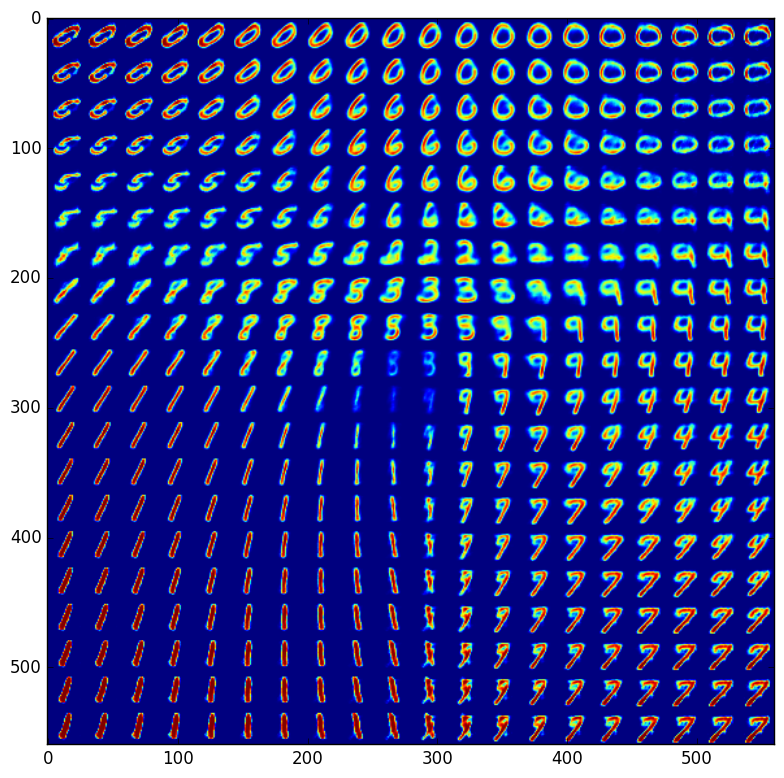
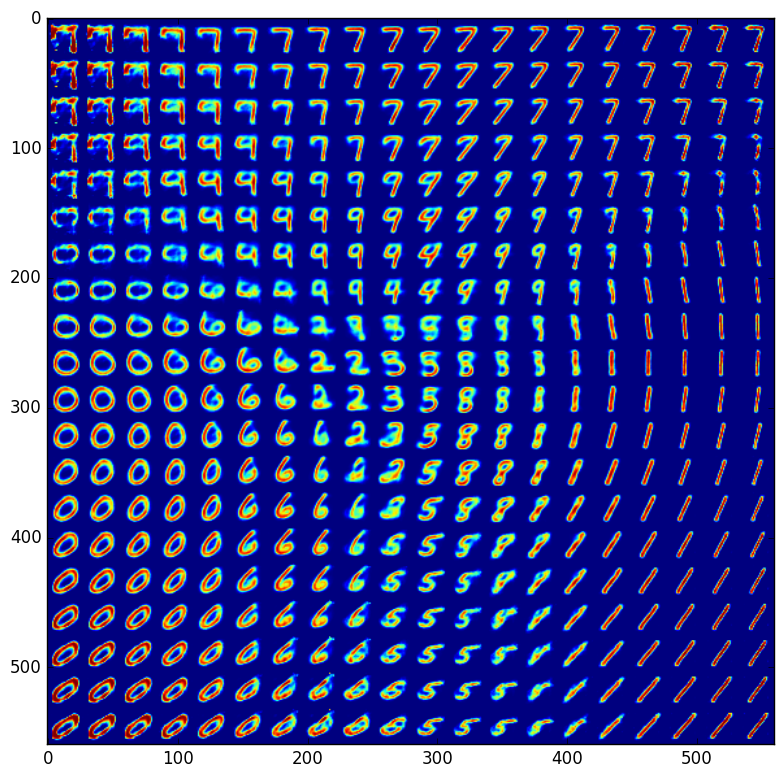
tuning

diff --git a/AVAE.py b/AVAE.py
@@ -120,7 +120,12 @@ class AVAE(object):
 
     def define_train_test_funcs(self):
         vlbd = -T.mean((self.kld(self.mu, self.var) + self.multivariate_bernoulli(self.reconstruct, self.X))) 
-        
+        gparams_vae = []
+        for param in self.params:
+            gparam = T.grad(vlbd, param)
+            gparams_vae.append(gparam)
+
+
         self.Dx = self.DiscriminatorX(self.in_size,  self.hidden_size)
         self.params_dis = self.Dx.params
         self.Dz = self.DiscriminatorZ(self.latent_size,  self.hidden_size)
@@ -137,7 +142,7 @@ class AVAE(object):
         d4 = self.Dx.discriminate(self.X) # real
 
         #loss_d = T.mean(-T.log(d0) - T.log(1 - d1) - T.log(d4) - T.log(1 - d2) - T.log(1 - d3)) 
-        loss_d = -T.mean(d0) + T.mean(d1) - T.mean(d4) + T.mean(d2) #+ T.mean(d3)
+        loss_d = -T.mean(d0) + T.mean(d1) - T.mean(d4) + T.mean(d2) + T.mean(d3)
         gparams_d = []
         for param in self.params_dis:
             gparam = T.grad(loss_d, param)
@@ -155,11 +160,12 @@ class AVAE(object):
         updates_d = optimizer(self.params_dis, gparams_d, lr)
         clip_updates_d = []
         for p, v in updates_d:
-            clip_updates_d.append((p, T.clip(v, -0.05, 0.05)))
+            clip_updates_d.append((p, T.clip(v, -0.01, 0.01)))
         updates_d = clip_updates_d
         updates_g = optimizer(self.params, gparams, lr)
+        updates_vae = optimizer(self.params, gparams_vae, lr)
 
-        #self.train_d = theano.function(inputs = [self.X, self.Z, lr], outputs = [vlbd, loss_d, loss_g], updates = updates)
+        self.train_vae = theano.function(inputs = [self.X, lr], outputs = vlbd, updates = updates_vae)
         self.train_d = theano.function(inputs = [self.X, self.Z, lr], outputs = loss_d, updates = updates_d)
         self.train_g = theano.function(inputs = [self.X, self.Z, lr], outputs = [vlbd,  loss_g], updates = updates_g)
         

diff --git a/main_mnist.py b/main_mnist.py
@@ -17,7 +17,7 @@ hidden_size = 400
 latent_size = 2
 iter_d = 1
 # try: sgd, momentum, rmsprop, adagrad, adadelta, adam, nesterov_momentum
-optimizer = "rmsprop"
+optimizer = "adam"
 
 train_set, valid_set, test_set = data.mnist()
 
@@ -38,20 +38,28 @@ for i in xrange(200):
     in_start = time.time()
     for batch_id, xy in train_xy.items():
         X = xy[0]
+        if i < 50:
+            error += model.train_vae(X, lr)
+            continue
+        
         local_bath_size = len(X)
         Z = model.noiser(local_bath_size)
+        
+        loss_d = 0                                        
         if batch_id % iter_d == 0:
-            cost,  loss_g = model.train_g(X, Z, lr)
-            error += cost
-            error_g += loss_g
-        loss_d = model.train_d(X, Z, lr)
+            loss_d += model.train_d(X, Z, lr)
+        
+        cost,  loss_g = model.train_g(X, Z, lr)
+        
+        error += cost
+        error_g += loss_g
         error_d += loss_d
-
+    
     in_time = time.time() - in_start
 
-    error /= len(train_xy) / iter_d;
-    error_d /= len(train_xy);
-    error_g /= len(train_xy) / iter_d;
+    error /= len(train_xy);
+    error_d /= len(train_xy) / iter_d;
+    error_g /= len(train_xy);
 
     print "Iter = " + str(i) + ", vlbd = " + str(error) \
             + ", error_d = " + str(error_d) + ", error_g = " + str(error_g) \

diff --git a/main_face.py b/main_face.py
@@ -17,7 +17,7 @@ hidden_size = 500
 latent_size = 2
 iter_d = 1
 # try: sgd, momentum, rmsprop, adagrad, adadelta, adam, nesterov_momentum
-optimizer = "rmsprop"
+optimizer = "adam"
 
 train_set, valid_set, test_set = data.freyface()
 
@@ -38,13 +38,16 @@ for i in xrange(300):
     in_start = time.time()
     for batch_id, xy in train_xy.items():
         X = xy[0]
+        if i < 50:
+            error += model.train_vae(X, lr)
+            continue 
         local_bath_size = len(X)
         Z = model.noiser(local_bath_size)
         
         loss_d = 0
         for di in xrange(iter_d):
             loss_d += model.train_d(X, Z, lr)
-        loss_d = loss_d / iter_d
+
         cost,  loss_g = model.train_g(X, Z, lr)
         
 
@@ -55,7 +58,7 @@ for i in xrange(300):
     in_time = time.time() - in_start
 
     error /= len(train_xy);
-    error_d /= len(train_xy);
+    error_d /= len(train_xy) / iter_d;
     error_g /= len(train_xy);
 
     print "Iter = " + str(i) + ", vlbd = " + str(error) \

diff --git a/main_text.py b/main_text.py
@@ -17,7 +17,7 @@ hidden_size = 500
 latent_size = 2
 iter_d = 1
 # try: sgd, momentum, rmsprop, adagrad, adadelta, adam, nesterov_momentum
-optimizer = "rmsprop"
+optimizer = "adam"
 continuous = False
 
 train_idx, valid_idx, test_idx, other_data = data.apnews()
@@ -43,10 +43,12 @@ for i in xrange(200):
         local_bath_size = len(x_idx)
         Z = model.noiser(local_bath_size) 
         
+        if i < 300:
+            error += model.train_vae(X, lr)
+            continue
         loss_d = 0
         for di in xrange(iter_d):
             loss_d += model.train_d(X, Z, lr)
-        loss_d = loss_d / iter_d
         cost,  loss_g = model.train_g(X, Z, lr)
 
         error += cost
@@ -56,7 +58,7 @@ for i in xrange(200):
     in_time = time.time() - in_start
 
     error /= len(train_xy);
-    error_d /= len(train_xy);
+    error_d /= len(train_xy) / iter_d;
     error_g /= len(train_xy);
 
     print "Iter = " + str(i) + ", vlbd = " + str(error) \
